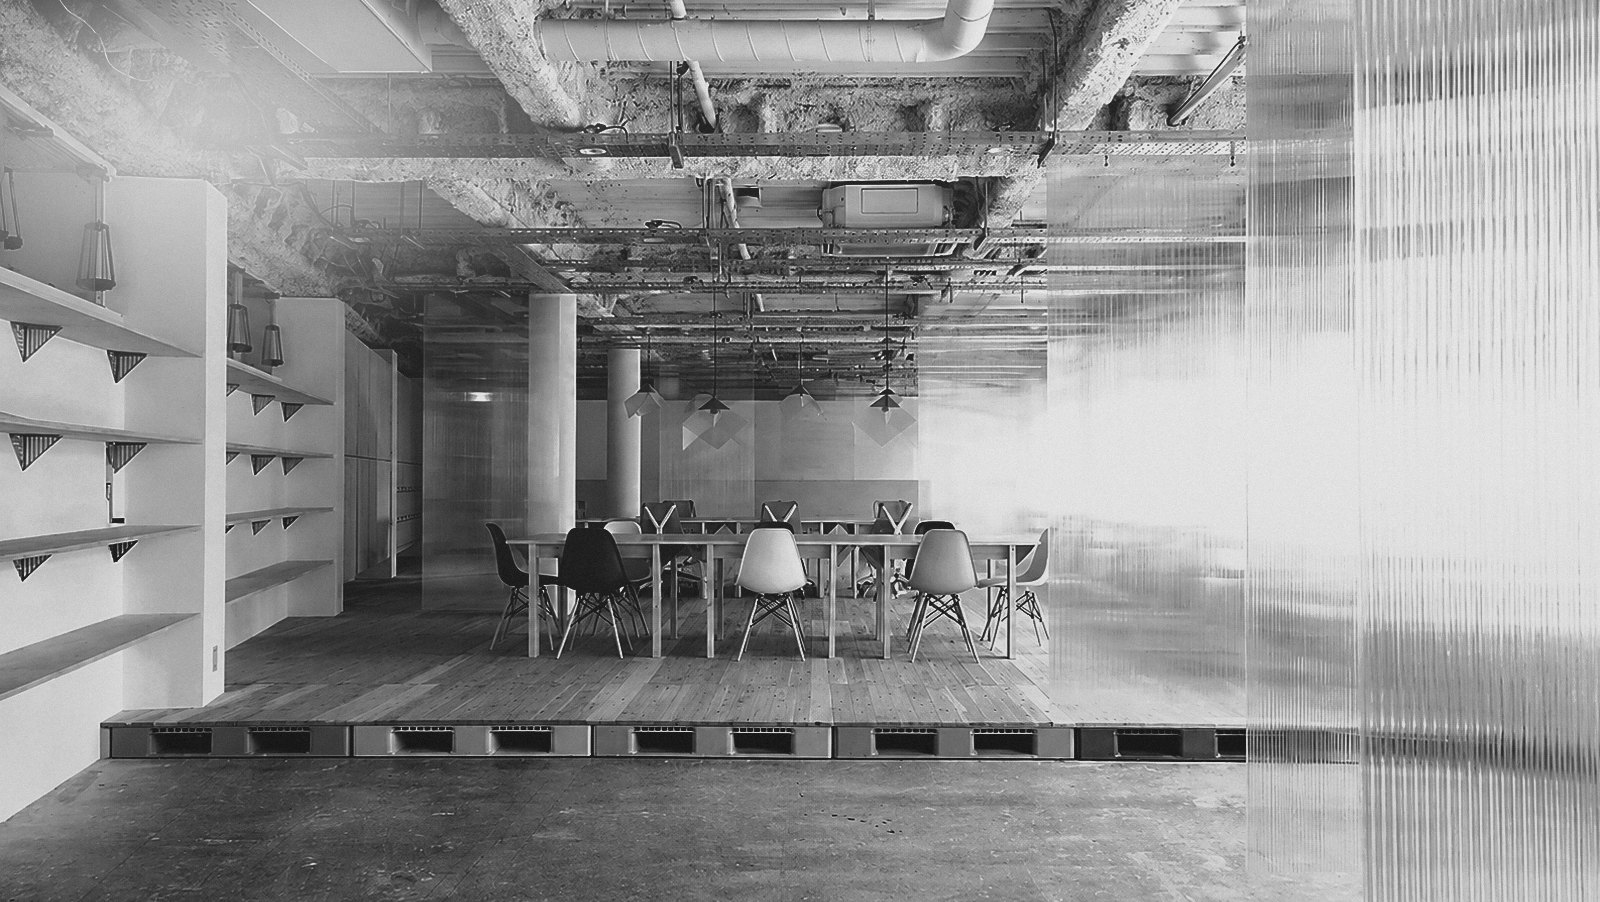
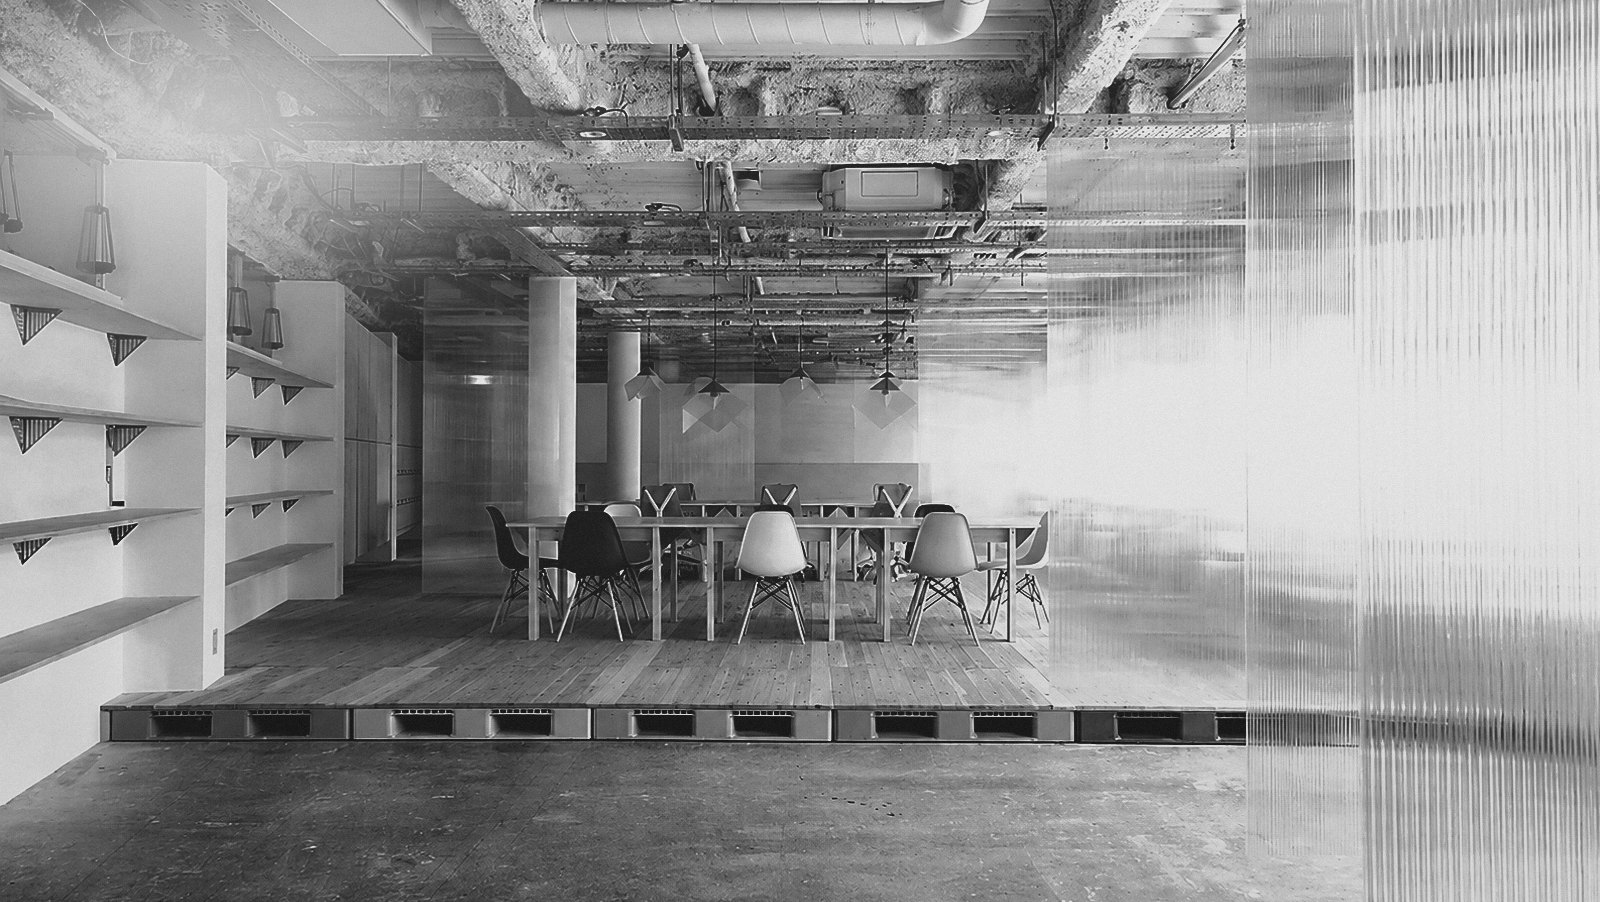
Company の写真: 帯を下げて足元の切れを解消
- 下が切れすぎていたので、素材から切り出す帯の位置を下へ移した
  (2: 0.62→0.80 / 3: 0.55→0.72 / 4: 0.60→0.78 / 5: 0.55→0.70 /
   6: 0.55→0.72)。机や床の手前側が入り、構図の座りが良くなる
- 階調・粒状・見出し裏の均し(平均190〜225)は従来どおり
- 1枚目(屋根)は Figma 408:24551 の絶対配置なので素材は切らない
- 版数: css/js 20260814h / 写真 v=8

diff --git a/darkblack.html b/darkblack.html
@@ -8,7 +8,7 @@
 <link rel="preconnect" href="https://fonts.googleapis.com">
 <link rel="preconnect" href="https://fonts.gstatic.com" crossorigin>
 <link href="https://fonts.googleapis.com/css2?family=Roboto:wght@400;500&family=Abril+Fatface&family=Alata&family=Belanosima:wght@600;700&family=Gugi&family=Inter:wght@400;700&family=Noto+Sans+JP:wght@400;500;600;700;800&display=swap" rel="stylesheet">
-<link rel="stylesheet" href="css/style.css?v=20260814g">
+<link rel="stylesheet" href="css/style.css?v=20260814h">
 <style>
   :root { --color-primary: #0D0D0D; --mq-accent: #4B4B4B; /* A-2はマーキーを色変化させない */ }
 </style>
@@ -34,8 +34,8 @@
     </svg>
   </div>
 </div>
-<script src="js/splash-shapes.js?v=20260814g"></script>
-<script src="js/splash.js?v=20260814g"></script>
+<script src="js/splash-shapes.js?v=20260814h"></script>
+<script src="js/splash.js?v=20260814h"></script>
 <noscript><style>.intro-overlay{display:none!important}.hero__intro-item,.kv-pill.hero__intro-item,.hero__desc--brushup p{opacity:1!important;transform:none!important;filter:none!important}.hero__blob{opacity:.8!important}.hero__motif .hm{opacity:1!important;stroke-dasharray:none!important;stroke-dashoffset:0!important}.site-header--brushup .site-header__inner{opacity:1!important;transform:none!important}</style></noscript>
 
 <header class="site-header site-header--brushup" id="site-header">
@@ -347,12 +347,12 @@
              31120/28485 の6枚をモノクロに調律したもの。矩形マスクで
              切り替わり、1枚ごとに緩やかなケンバーンズが掛かる。 -->
         <div class="cmp__photo cmp__slides" aria-hidden="true">
-          <div class="cmp__slide is-active"><img src="assets/images/company/office-1.jpg?v=7" alt=""></div>
-          <div class="cmp__slide"><img src="assets/images/company/office-2.jpg?v=7" alt=""></div>
-          <div class="cmp__slide"><img src="assets/images/company/office-3.jpg?v=7" alt=""></div>
-          <div class="cmp__slide"><img src="assets/images/company/office-4.jpg?v=7" alt=""></div>
-          <div class="cmp__slide"><img src="assets/images/company/office-5.jpg?v=7" alt=""></div>
-          <div class="cmp__slide"><img src="assets/images/company/office-6.jpg?v=7" alt=""></div>
+          <div class="cmp__slide is-active"><img src="assets/images/company/office-1.jpg?v=8" alt=""></div>
+          <div class="cmp__slide"><img src="assets/images/company/office-2.jpg?v=8" alt=""></div>
+          <div class="cmp__slide"><img src="assets/images/company/office-3.jpg?v=8" alt=""></div>
+          <div class="cmp__slide"><img src="assets/images/company/office-4.jpg?v=8" alt=""></div>
+          <div class="cmp__slide"><img src="assets/images/company/office-5.jpg?v=8" alt=""></div>
+          <div class="cmp__slide"><img src="assets/images/company/office-6.jpg?v=8" alt=""></div>
         </div>
         <div class="cmp__label reveal">
           <span class="cmp__en">Company</span>
@@ -421,12 +421,12 @@
   <p class="site-footer__copy">©2025 props, Inc</p>
 </footer>
 
-<script src="js/company-photos.js?v=20260814g"></script>
-<script src="js/main.js?v=20260814g"></script>
-<script src="js/service-stage.js?v=20260814g"></script>
+<script src="js/company-photos.js?v=20260814h"></script>
+<script src="js/main.js?v=20260814h"></script>
+<script src="js/service-stage.js?v=20260814h"></script>
 <script src="assets/logos/miai-particles.js" defer></script>
-<script src="js/about-logo-motion.js?v=20260814g" defer></script>
-<script src="js/hero-morph.js?v=20260814g"></script>
-<script src="js/ai-shift-draw.js?v=20260814g"></script>
+<script src="js/about-logo-motion.js?v=20260814h" defer></script>
+<script src="js/hero-morph.js?v=20260814h"></script>
+<script src="js/ai-shift-draw.js?v=20260814h"></script>
 </body>
 </html>

diff --git a/Red-orange.html b/Red-orange.html
@@ -8,7 +8,7 @@
 <link rel="preconnect" href="https://fonts.googleapis.com">
 <link rel="preconnect" href="https://fonts.gstatic.com" crossorigin>
 <link href="https://fonts.googleapis.com/css2?family=Roboto:wght@400;500&family=Abril+Fatface&family=Alata&family=Belanosima:wght@600;700&family=Gugi&family=Inter:wght@400;700&family=Noto+Sans+JP:wght@400;500;600;700;800&display=swap" rel="stylesheet">
-<link rel="stylesheet" href="css/style.css?v=20260814g">
+<link rel="stylesheet" href="css/style.css?v=20260814h">
 <style>
   :root { --color-primary: #FF2400; }
 </style>
@@ -34,8 +34,8 @@
     </svg>
   </div>
 </div>
-<script src="js/splash-shapes.js?v=20260814g"></script>
-<script src="js/splash.js?v=20260814g"></script>
+<script src="js/splash-shapes.js?v=20260814h"></script>
+<script src="js/splash.js?v=20260814h"></script>
 <noscript><style>.intro-overlay{display:none!important}.hero__intro-item,.kv-pill.hero__intro-item,.hero__desc--brushup p{opacity:1!important;transform:none!important;filter:none!important}.hero__blob{opacity:.8!important}.hero__motif .hm{opacity:1!important;stroke-dasharray:none!important;stroke-dashoffset:0!important}.site-header--brushup .site-header__inner{opacity:1!important;transform:none!important}</style></noscript>
 
 <header class="site-header site-header--brushup" id="site-header">
@@ -347,12 +347,12 @@
              31120/28485 の6枚をモノクロに調律したもの。矩形マスクで
              切り替わり、1枚ごとに緩やかなケンバーンズが掛かる。 -->
         <div class="cmp__photo cmp__slides" aria-hidden="true">
-          <div class="cmp__slide is-active"><img src="assets/images/company/office-1.jpg?v=7" alt=""></div>
-          <div class="cmp__slide"><img src="assets/images/company/office-2.jpg?v=7" alt=""></div>
-          <div class="cmp__slide"><img src="assets/images/company/office-3.jpg?v=7" alt=""></div>
-          <div class="cmp__slide"><img src="assets/images/company/office-4.jpg?v=7" alt=""></div>
-          <div class="cmp__slide"><img src="assets/images/company/office-5.jpg?v=7" alt=""></div>
-          <div class="cmp__slide"><img src="assets/images/company/office-6.jpg?v=7" alt=""></div>
+          <div class="cmp__slide is-active"><img src="assets/images/company/office-1.jpg?v=8" alt=""></div>
+          <div class="cmp__slide"><img src="assets/images/company/office-2.jpg?v=8" alt=""></div>
+          <div class="cmp__slide"><img src="assets/images/company/office-3.jpg?v=8" alt=""></div>
+          <div class="cmp__slide"><img src="assets/images/company/office-4.jpg?v=8" alt=""></div>
+          <div class="cmp__slide"><img src="assets/images/company/office-5.jpg?v=8" alt=""></div>
+          <div class="cmp__slide"><img src="assets/images/company/office-6.jpg?v=8" alt=""></div>
         </div>
         <div class="cmp__label reveal">
           <span class="cmp__en">Company</span>
@@ -421,12 +421,12 @@
   <p class="site-footer__copy">©2025 props, Inc</p>
 </footer>
 
-<script src="js/company-photos.js?v=20260814g"></script>
-<script src="js/main.js?v=20260814g"></script>
-<script src="js/service-stage.js?v=20260814g"></script>
+<script src="js/company-photos.js?v=20260814h"></script>
+<script src="js/main.js?v=20260814h"></script>
+<script src="js/service-stage.js?v=20260814h"></script>
 <script src="assets/logos/miai-particles.js" defer></script>
-<script src="js/about-logo-motion.js?v=20260814g" defer></script>
-<script src="js/hero-morph.js?v=20260814g"></script>
-<script src="js/ai-shift-draw.js?v=20260814g"></script>
+<script src="js/about-logo-motion.js?v=20260814h" defer></script>
+<script src="js/hero-morph.js?v=20260814h"></script>
+<script src="js/ai-shift-draw.js?v=20260814h"></script>
 </body>
 </html>

diff --git a/fire.html b/fire.html
@@ -8,7 +8,7 @@
 <link rel="preconnect" href="https://fonts.googleapis.com">
 <link rel="preconnect" href="https://fonts.gstatic.com" crossorigin>
 <link href="https://fonts.googleapis.com/css2?family=Roboto:wght@400;500&family=Abril+Fatface&family=Alata&family=Belanosima:wght@600;700&family=Gugi&family=Inter:wght@400;700&family=Noto+Sans+JP:wght@400;500;600;700;800&display=swap" rel="stylesheet">
-<link rel="stylesheet" href="css/style.css?v=20260814g">
+<link rel="stylesheet" href="css/style.css?v=20260814h">
 <style>
   :root { --color-primary: #D24A0F; }
 </style>
@@ -34,8 +34,8 @@
     </svg>
   </div>
 </div>
-<script src="js/splash-shapes.js?v=20260814g"></script>
-<script src="js/splash.js?v=20260814g"></script>
+<script src="js/splash-shapes.js?v=20260814h"></script>
+<script src="js/splash.js?v=20260814h"></script>
 <noscript><style>.intro-overlay{display:none!important}.hero__intro-item,.kv-pill.hero__intro-item,.hero__desc--brushup p{opacity:1!important;transform:none!important;filter:none!important}.hero__blob{opacity:.8!important}.hero__motif .hm{opacity:1!important;stroke-dasharray:none!important;stroke-dashoffset:0!important}.site-header--brushup .site-header__inner{opacity:1!important;transform:none!important}</style></noscript>
 
 <header class="site-header site-header--brushup" id="site-header">
@@ -347,12 +347,12 @@
              31120/28485 の6枚をモノクロに調律したもの。矩形マスクで
              切り替わり、1枚ごとに緩やかなケンバーンズが掛かる。 -->
         <div class="cmp__photo cmp__slides" aria-hidden="true">
-          <div class="cmp__slide is-active"><img src="assets/images/company/office-1.jpg?v=7" alt=""></div>
-          <div class="cmp__slide"><img src="assets/images/company/office-2.jpg?v=7" alt=""></div>
-          <div class="cmp__slide"><img src="assets/images/company/office-3.jpg?v=7" alt=""></div>
-          <div class="cmp__slide"><img src="assets/images/company/office-4.jpg?v=7" alt=""></div>
-          <div class="cmp__slide"><img src="assets/images/company/office-5.jpg?v=7" alt=""></div>
-          <div class="cmp__slide"><img src="assets/images/company/office-6.jpg?v=7" alt=""></div>
+          <div class="cmp__slide is-active"><img src="assets/images/company/office-1.jpg?v=8" alt=""></div>
+          <div class="cmp__slide"><img src="assets/images/company/office-2.jpg?v=8" alt=""></div>
+          <div class="cmp__slide"><img src="assets/images/company/office-3.jpg?v=8" alt=""></div>
+          <div class="cmp__slide"><img src="assets/images/company/office-4.jpg?v=8" alt=""></div>
+          <div class="cmp__slide"><img src="assets/images/company/office-5.jpg?v=8" alt=""></div>
+          <div class="cmp__slide"><img src="assets/images/company/office-6.jpg?v=8" alt=""></div>
         </div>
         <div class="cmp__label reveal">
           <span class="cmp__en">Company</span>
@@ -421,12 +421,12 @@
   <p class="site-footer__copy">©2025 props, Inc</p>
 </footer>
 
-<script src="js/company-photos.js?v=20260814g"></script>
-<script src="js/main.js?v=20260814g"></script>
-<script src="js/service-stage.js?v=20260814g"></script>
+<script src="js/company-photos.js?v=20260814h"></script>
+<script src="js/main.js?v=20260814h"></script>
+<script src="js/service-stage.js?v=20260814h"></script>
 <script src="assets/logos/miai-particles.js" defer></script>
-<script src="js/about-logo-motion.js?v=20260814g" defer></script>
-<script src="js/hero-morph.js?v=20260814g"></script>
-<script src="js/ai-shift-draw.js?v=20260814g"></script>
+<script src="js/about-logo-motion.js?v=20260814h" defer></script>
+<script src="js/hero-morph.js?v=20260814h"></script>
+<script src="js/ai-shift-draw.js?v=20260814h"></script>
 </body>
 </html>

diff --git a/logo-a.html b/logo-a.html
@@ -8,7 +8,7 @@
 <link rel="preconnect" href="https://fonts.googleapis.com" />
 <link rel="preconnect" href="https://fonts.gstatic.com" crossorigin />
 <link href="https://fonts.googleapis.com/css2?family=Noto+Sans+JP:wght@400;500;700&family=Inter:wght@500;600&display=swap" rel="stylesheet" />
-<link rel="stylesheet" href="css/logo-detail.css?v=20260814g" />
+<link rel="stylesheet" href="css/logo-detail.css?v=20260814h" />
 </head>
 <body>
   <div class="wrap">
@@ -33,6 +33,6 @@
       </section>
     </div>
   </div>
-  <script src="js/logo-guide-v2.js?v=20260814g"></script>
+  <script src="js/logo-guide-v2.js?v=20260814h"></script>
 </body>
 </html>

diff --git a/logo-b.html b/logo-b.html
@@ -8,7 +8,7 @@
 <link rel="preconnect" href="https://fonts.googleapis.com" />
 <link rel="preconnect" href="https://fonts.gstatic.com" crossorigin />
 <link href="https://fonts.googleapis.com/css2?family=Noto+Sans+JP:wght@400;500;700&family=Inter:wght@500;600&display=swap" rel="stylesheet" />
-<link rel="stylesheet" href="css/logo-detail.css?v=20260814g" />
+<link rel="stylesheet" href="css/logo-detail.css?v=20260814h" />
 </head>
 <body>
   <div class="wrap">
@@ -33,6 +33,6 @@
       </section>
     </div>
   </div>
-  <script src="js/logo-guide-v2.js?v=20260814g"></script>
+  <script src="js/logo-guide-v2.js?v=20260814h"></script>
 </body>
 </html>

diff --git a/logo-c.html b/logo-c.html
@@ -8,7 +8,7 @@
 <link rel="preconnect" href="https://fonts.googleapis.com" />
 <link rel="preconnect" href="https://fonts.gstatic.com" crossorigin />
 <link href="https://fonts.googleapis.com/css2?family=Noto+Sans+JP:wght@400;500;700&family=Inter:wght@500;600&display=swap" rel="stylesheet" />
-<link rel="stylesheet" href="css/logo-detail.css?v=20260814g" />
+<link rel="stylesheet" href="css/logo-detail.css?v=20260814h" />
 </head>
 <body>
   <div class="wrap">
@@ -33,6 +33,6 @@
       </section>
     </div>
   </div>
-  <script src="js/logo-guide-v2.js?v=20260814g"></script>
+  <script src="js/logo-guide-v2.js?v=20260814h"></script>
 </body>
 </html>

diff --git a/logo-d.html b/logo-d.html
@@ -8,7 +8,7 @@
 <link rel="preconnect" href="https://fonts.googleapis.com" />
 <link rel="preconnect" href="https://fonts.gstatic.com" crossorigin />
 <link href="https://fonts.googleapis.com/css2?family=Noto+Sans+JP:wght@400;500;700&family=Inter:wght@500;600&display=swap" rel="stylesheet" />
-<link rel="stylesheet" href="css/logo-detail.css?v=20260814g" />
+<link rel="stylesheet" href="css/logo-detail.css?v=20260814h" />
 </head>
 <body>
   <div class="wrap">
@@ -33,6 +33,6 @@
       </section>
     </div>
   </div>
-  <script src="js/logo-guide-v2.js?v=20260814g"></script>
+  <script src="js/logo-guide-v2.js?v=20260814h"></script>
 </body>
 </html>
